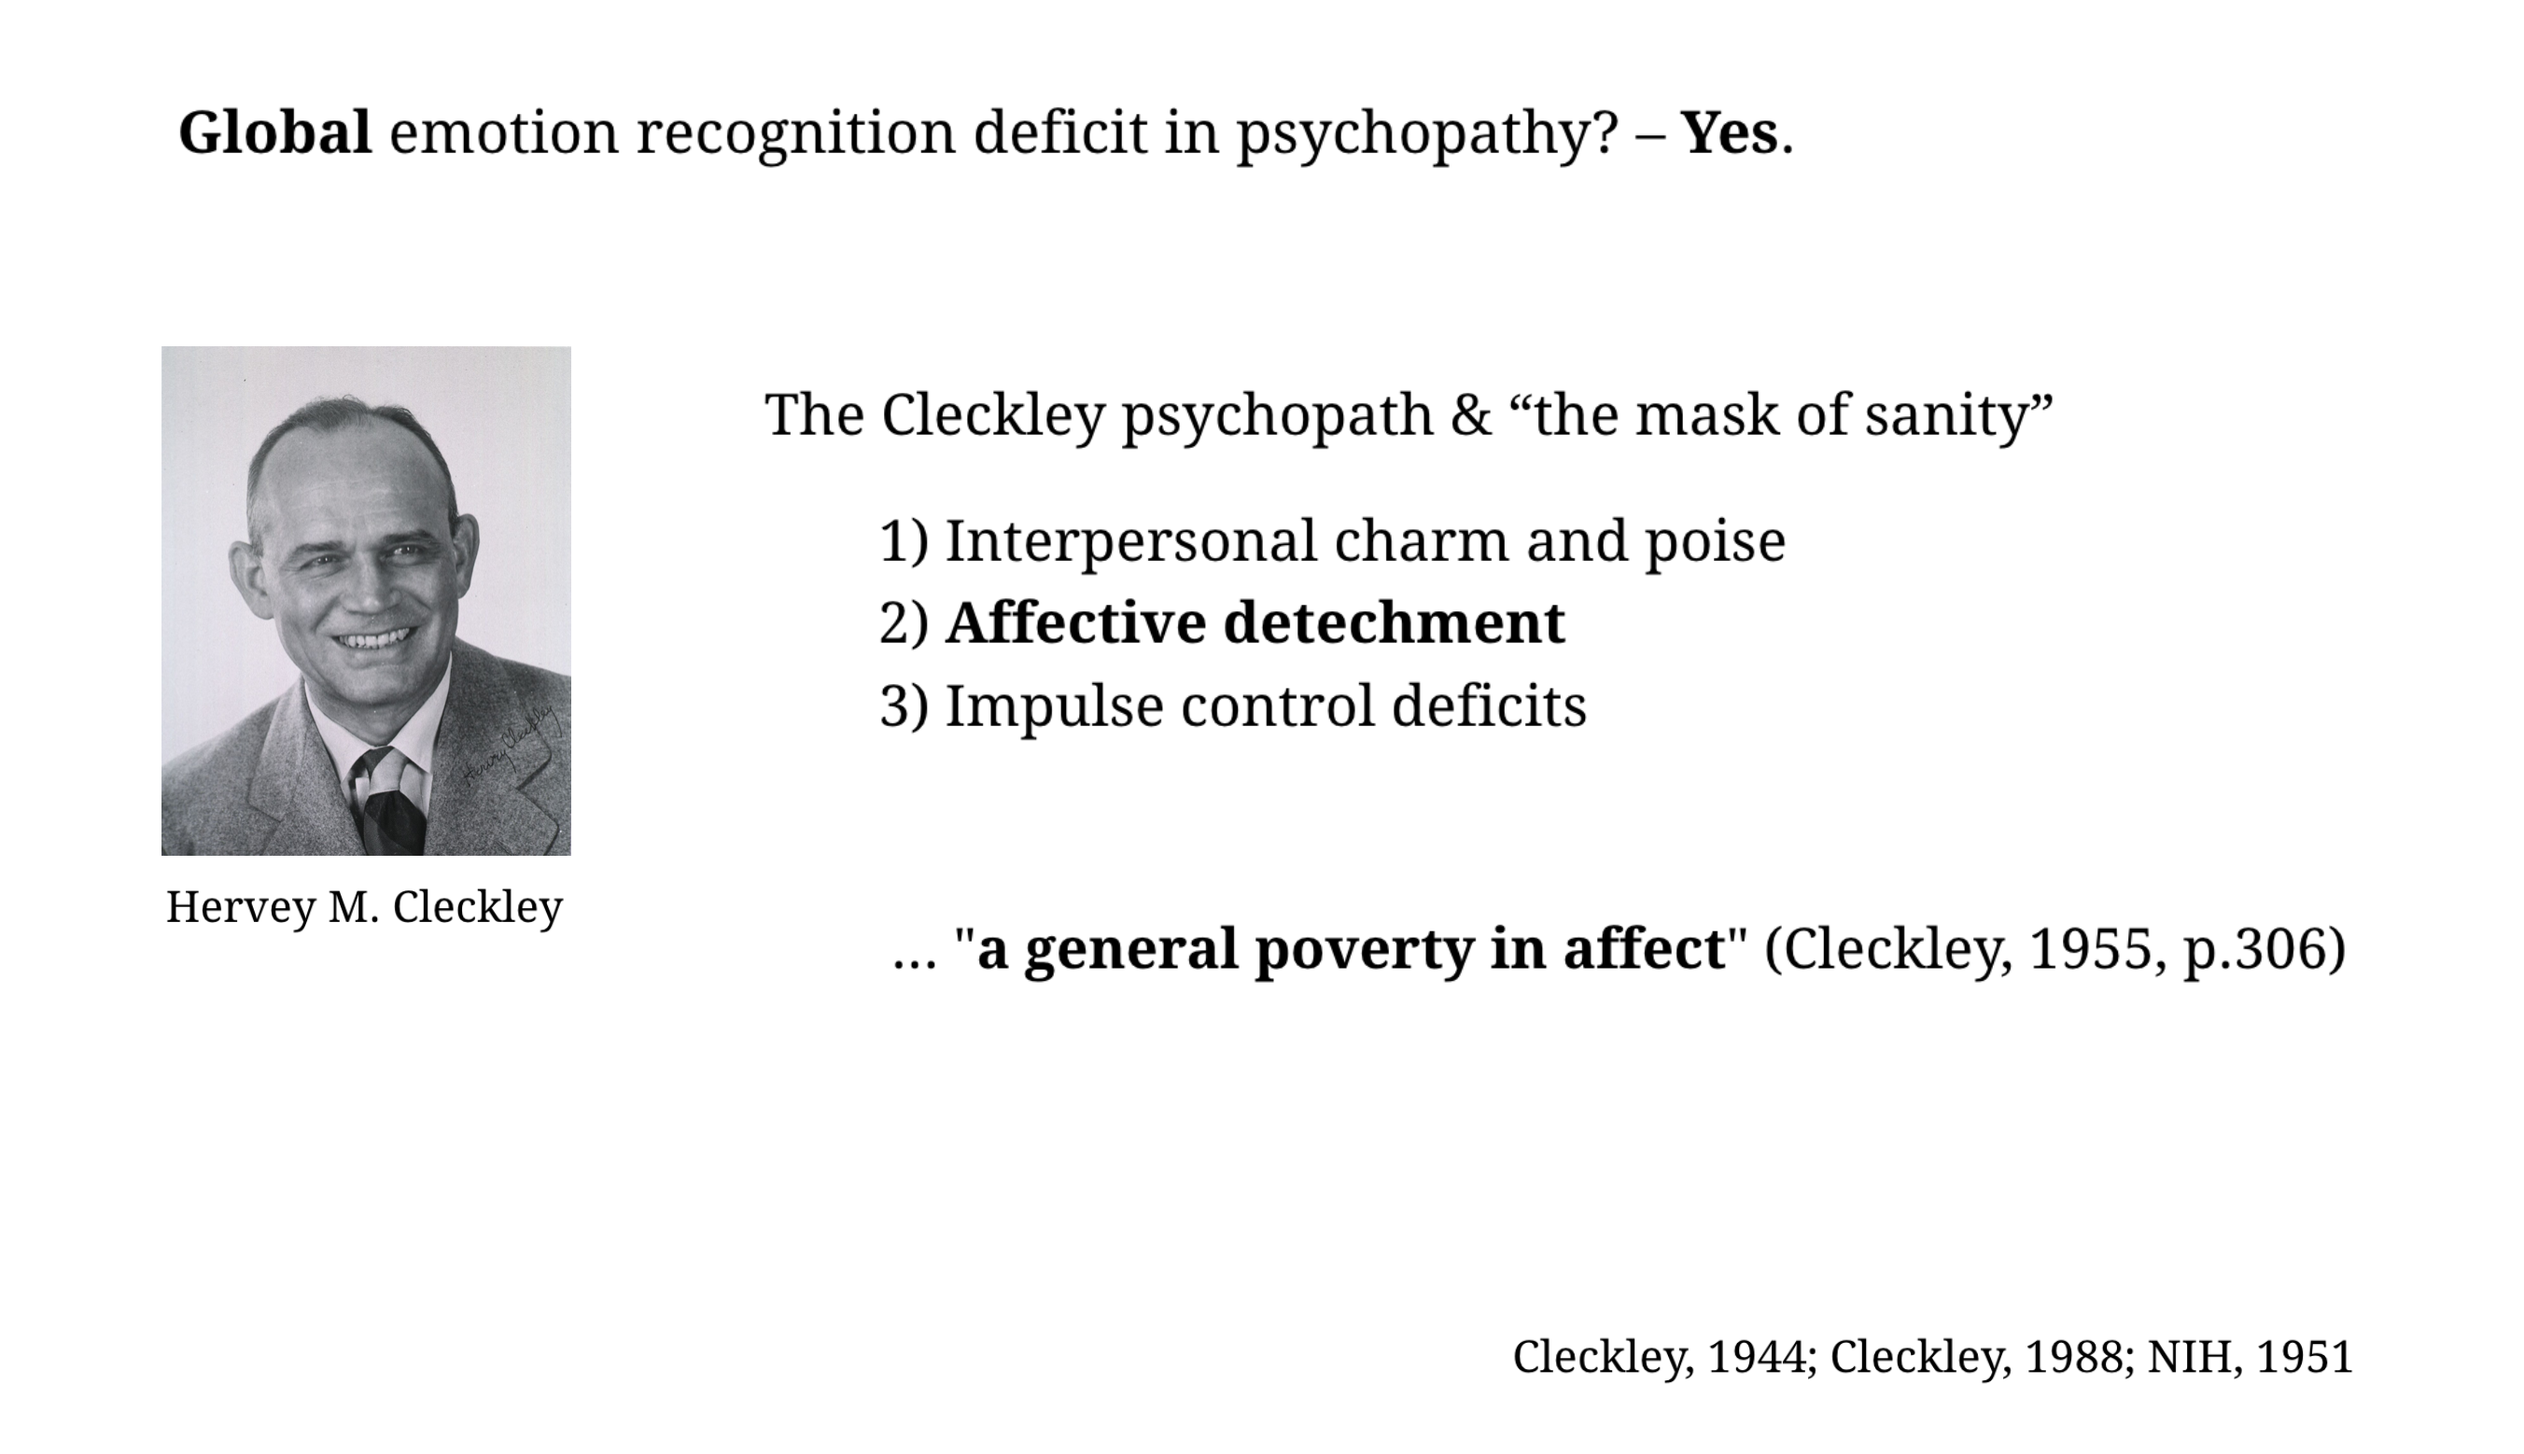
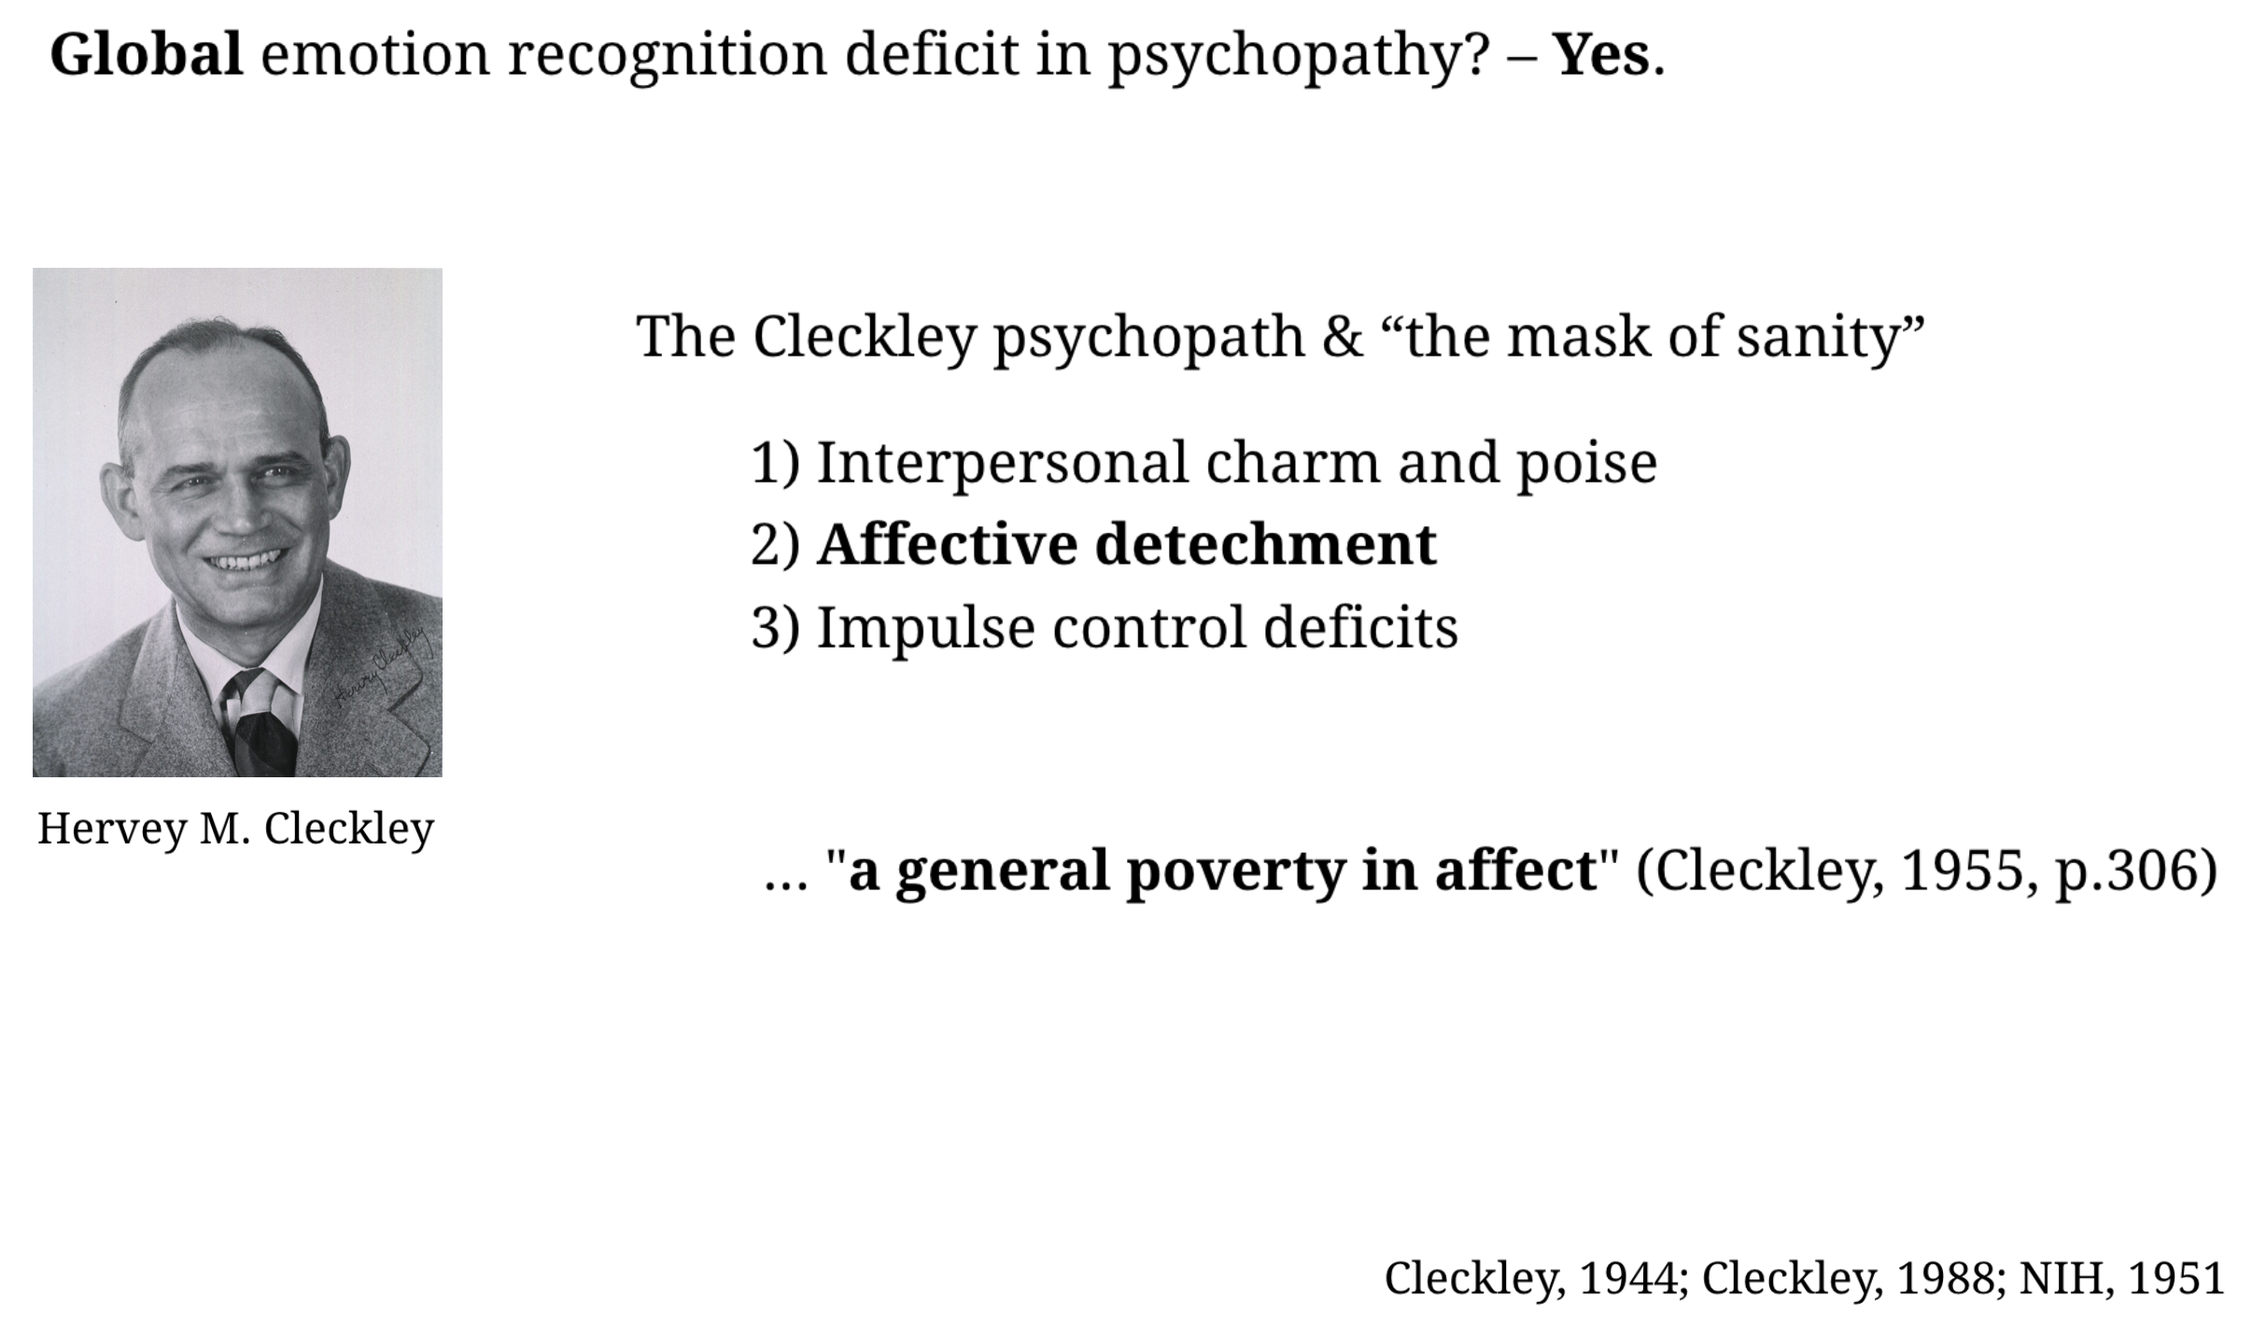
Update

diff --git a/Defense/Defense.html b/Defense/Defense.html
@@ -106,53 +106,13 @@ li:not(:last-child) {
 
 ## Psychopathy and Emotion Perception 
 
-Hervey M. Cleckley 
-
-The Cleckley psychopath &amp; “the mask of sanity”
-
-&lt;ol&gt;
-  &lt;li&gt;Interpersonal charm and poise&lt;/li&gt;
-  &lt;li&gt;&lt;strong&gt;Affective detechment&lt;/strong&gt;&lt;/li&gt;
-  &lt;li&gt;Impulse control deficits&lt;/li&gt;
-&lt;/ol&gt;
-
-
-... "**a general poverty in affect**" (Cleckley, 1955, p.306)
-
-Joseph M. Newman 
-
-Exaggerated "Attention Bottleneck" 
-
-Narrower "bottleneck" for information that is **not** goal-relevant
-
-Cleckley, 1944; Cleckley, 1988; NIH, 1951
-
-Newman, 1987; Patrick, 2018; 
+![cleckley](https://raw.githubusercontent.com/carolinelee78/Honors-Thesis/main/Defense/cleckley.png)
 
 ---
 
 ## Psychopathy and Emotion Perception 
 
 
-**Global** emotion recognition deficit in psychopathy? – **Yes**.
-
-**Global** emotion recognition deficit in psychopathy? – **No**.
-
-University of Wisconsin-Madison, n.d.
-
-Increases with higher levels of psychopathy: 
-
-&lt;ul&gt;
-   &lt;li&gt;Reduced response to goal-peripheral affective content &lt;/li&gt;
-   &lt;li&gt;Negative perception of goal-peripheral neutral content  (inhibitory devaluation)&lt;/li&gt;
-&lt;/ul&gt;
-
-Effects disappear when enough time is allotted for 
-processing goal-peripheral content 
-
-Larson et al., 2013; Newman, 1987; 
-
-Tillem &amp; Baskin-Sommers, 2017
 
 ---
 
